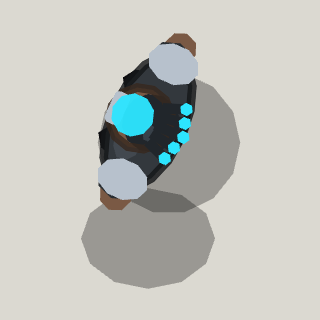
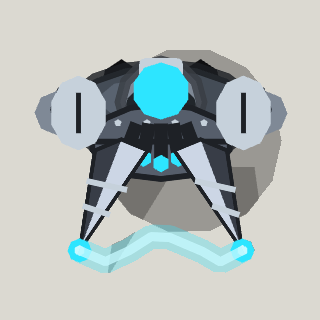
Kilowatt: more machine, two spikes on his back with an arc between them
His look moves to kilowatt_look.lua, shared by the Roof (kilowatt.lua) and
his ride past on the Overpass (war_rigs.lua), which drew him twice. Gunmetal
plating and steel for clothes and skin, an armoured back plate with rivets,
and two insulator spikes standing up off it, leaning back: a lit face and a
dark one either side of a ridge, insulator rings, glowing tips, shadows. A
jagged blue arc crackles between the tips, new every frame; it runs white and
fat while he vents and forks in phase 2. At night it lights up behind him.

The wiki's portrait run now tells paint from ground by drawing the same frame
on black and on white with the same dice, so his light steel isn't wiped as
ground; his Overpass portrait is drawn from his look.

diff --git a/docs/wiki.md b/docs/wiki.md
@@ -65,7 +65,10 @@ page and no portrait, it walks the player up to it and draws only that
 enemy's feature (its `drawAboveCars`, where bodies are, unless the entry
 says `portraitLayers = "all"`), centred on it, on a plain ground, without
 words or the flat bars over heads, and keeps only the shape the enemy is
-(what is joined to it; a neighbour or a speech bubble is wiped):
+(what is joined to it; a neighbour or a speech bubble is wiped). What is
+painted and what is ground is told by drawing the same frame on black and
+on white (the same dice for both): paint comes out the same on either,
+whatever its colour, and faint cones and glows don't:
 `docs/wiki/enemies/img/<id>.png`. Enemies the tours never
 bring out (city events, an ability's horde, a fight's late waves) get a
 scene in `tools/wiki/scenes.lua`.

diff --git a/CHANGELOG.md b/CHANGELOG.md
@@ -14,6 +14,11 @@ How to write it (details in "Changelog and versioning" in `docs/features.md`):
 
 ## [Unreleased]
 
+### Changed
+- Kilowatt looks more machine than man: gunmetal plating, steel arms, an armoured back plate, and two insulator
+  spikes standing up off his back with a blue arc crackling between them. It runs white while he vents and forks
+  once he's lit (phase 2).
+
 ## [0.39.0] - 2026-10-20
 
 The game has a wiki: a page for every enemy, with its picture, its numbers and how to beat it.

diff --git a/docs/wiki/enemies/cyber-feud-kilowatt.md b/docs/wiki/enemies/cyber-feud-kilowatt.md
@@ -6,7 +6,7 @@
 
 <img src="img/cyber-feud-kilowatt.png" alt="Kilowatt" width="240">
 
-The Static's boss: huge, loud, more machine than man, with a reactor for a heart. He fights alongside Director Saye, and comes for you up close.
+The Static's boss: huge, loud, more machine than man, plated in gunmetal with a reactor for a heart and two insulator spikes on his back, a blue arc crackling between them. He fights alongside Director Saye, and comes for you up close.
 
 | | |
 |---|---|
